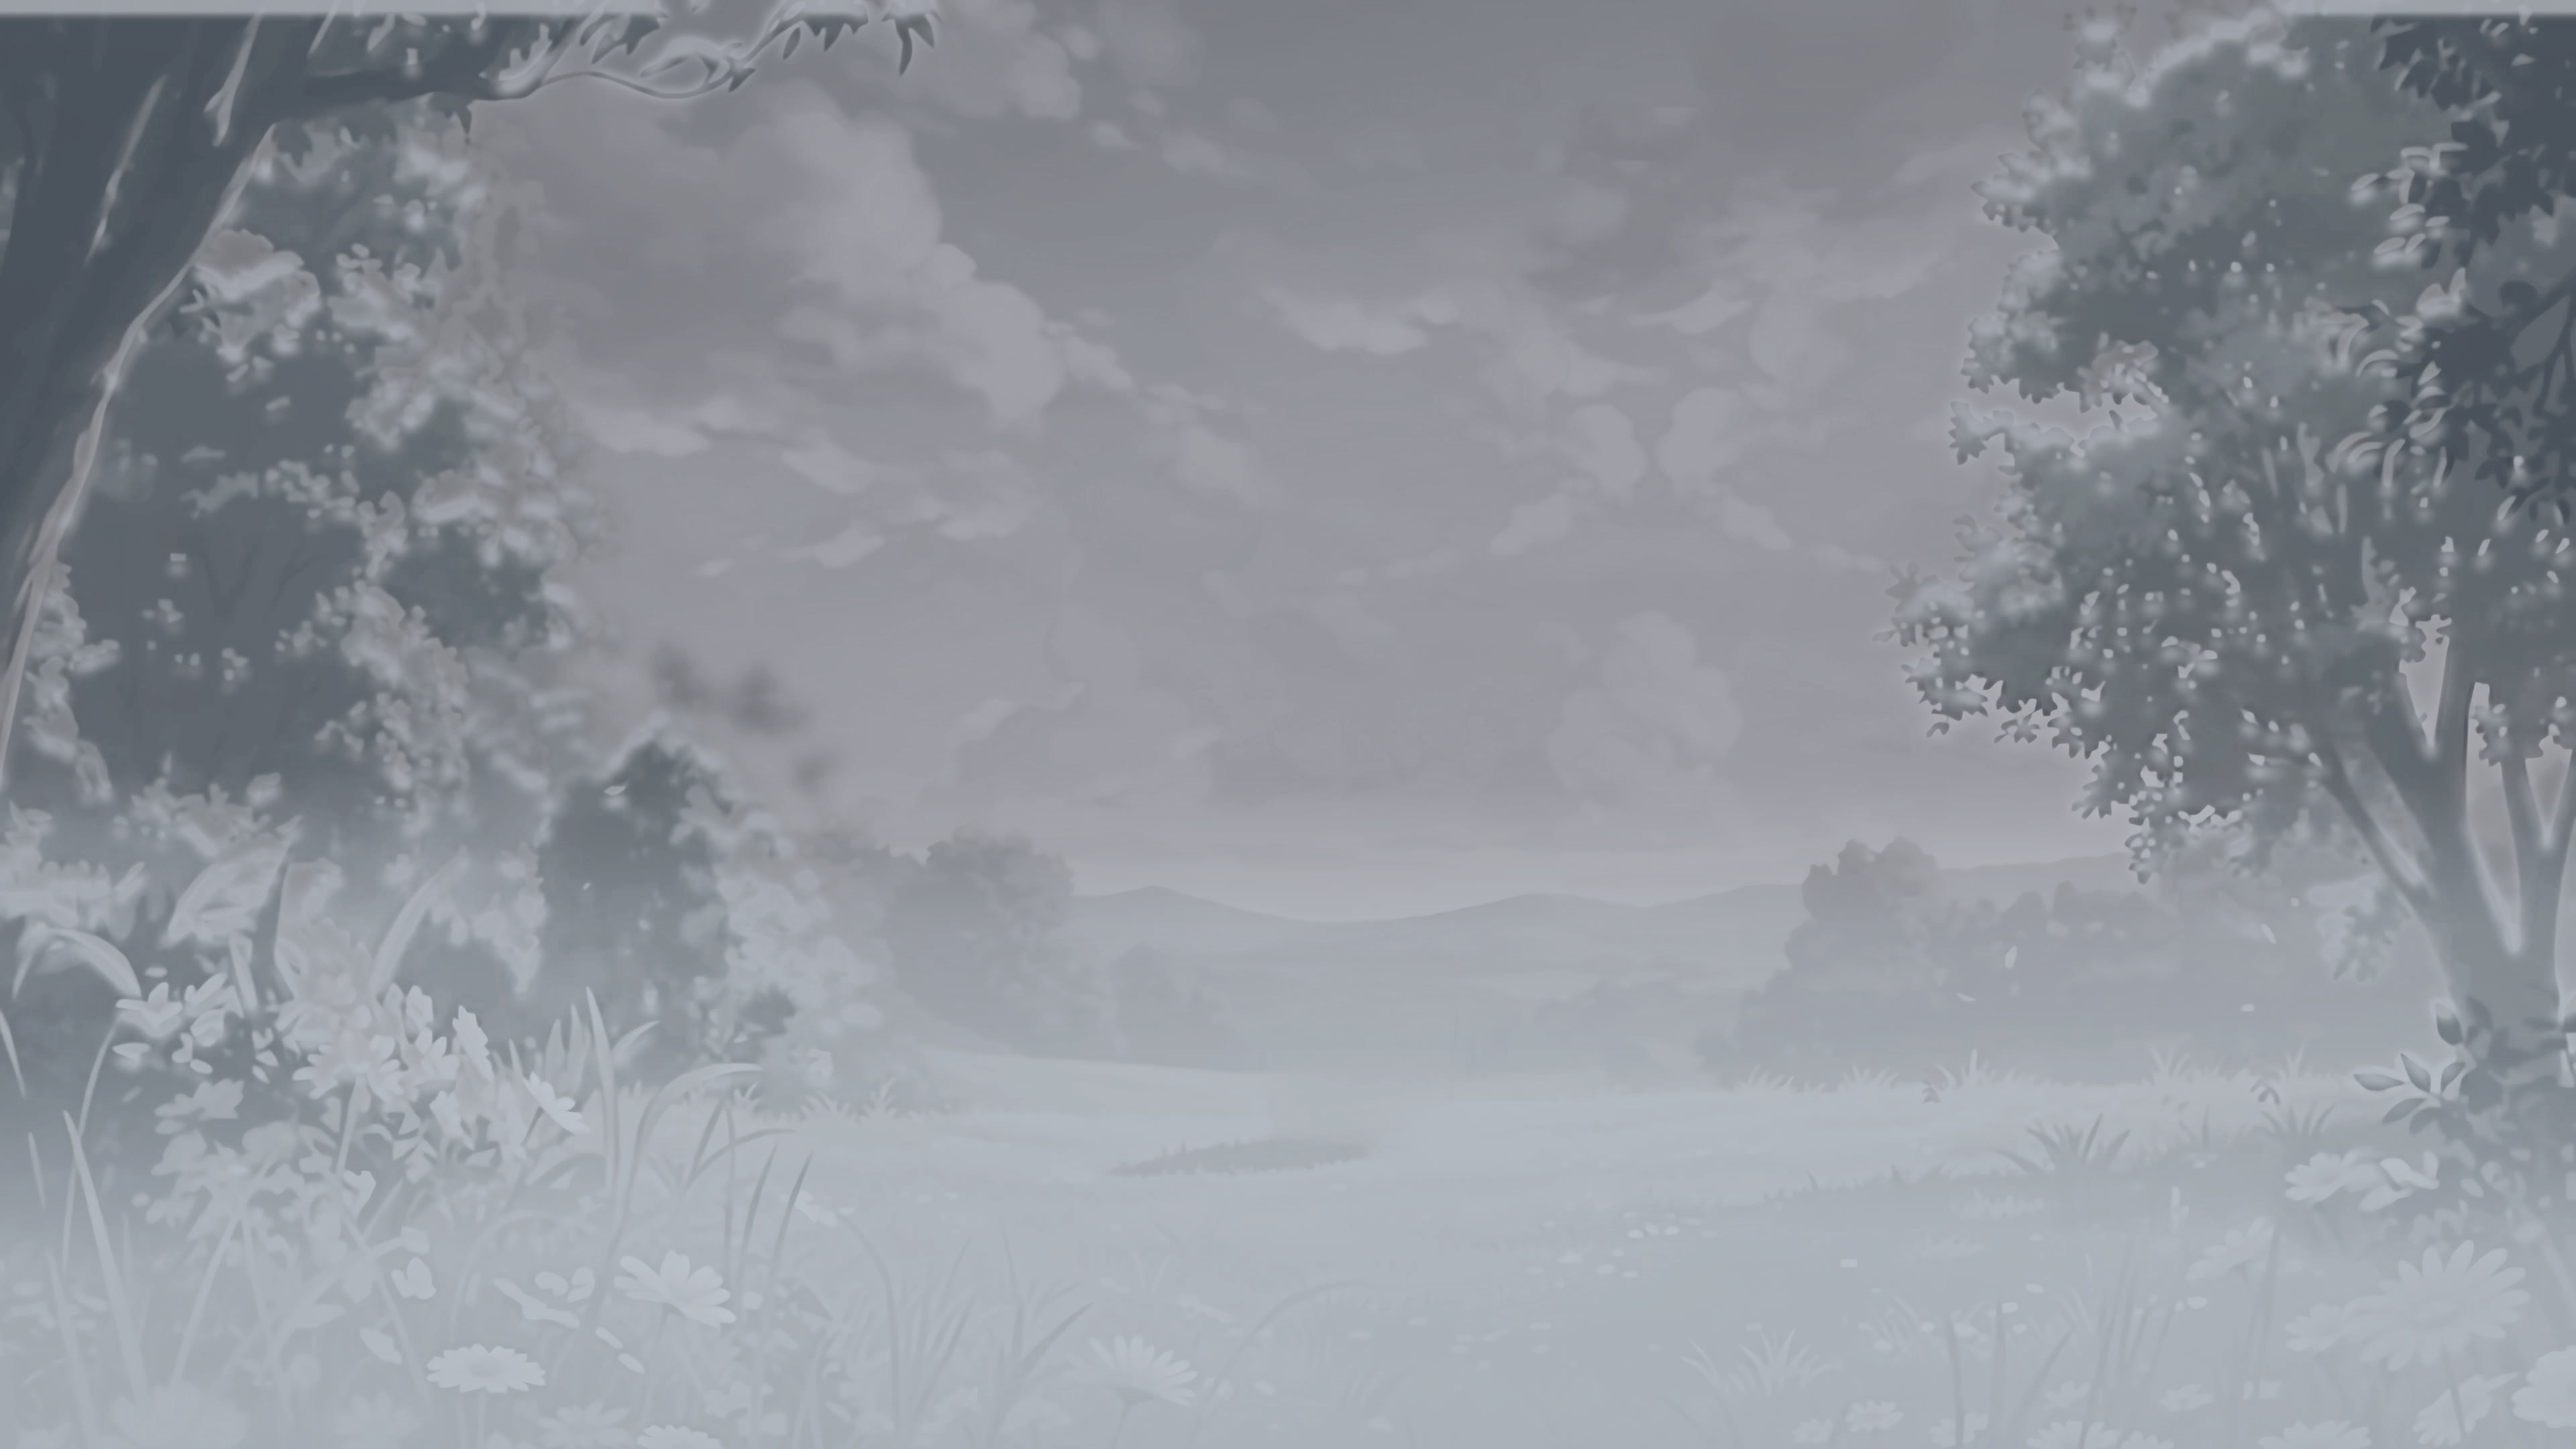
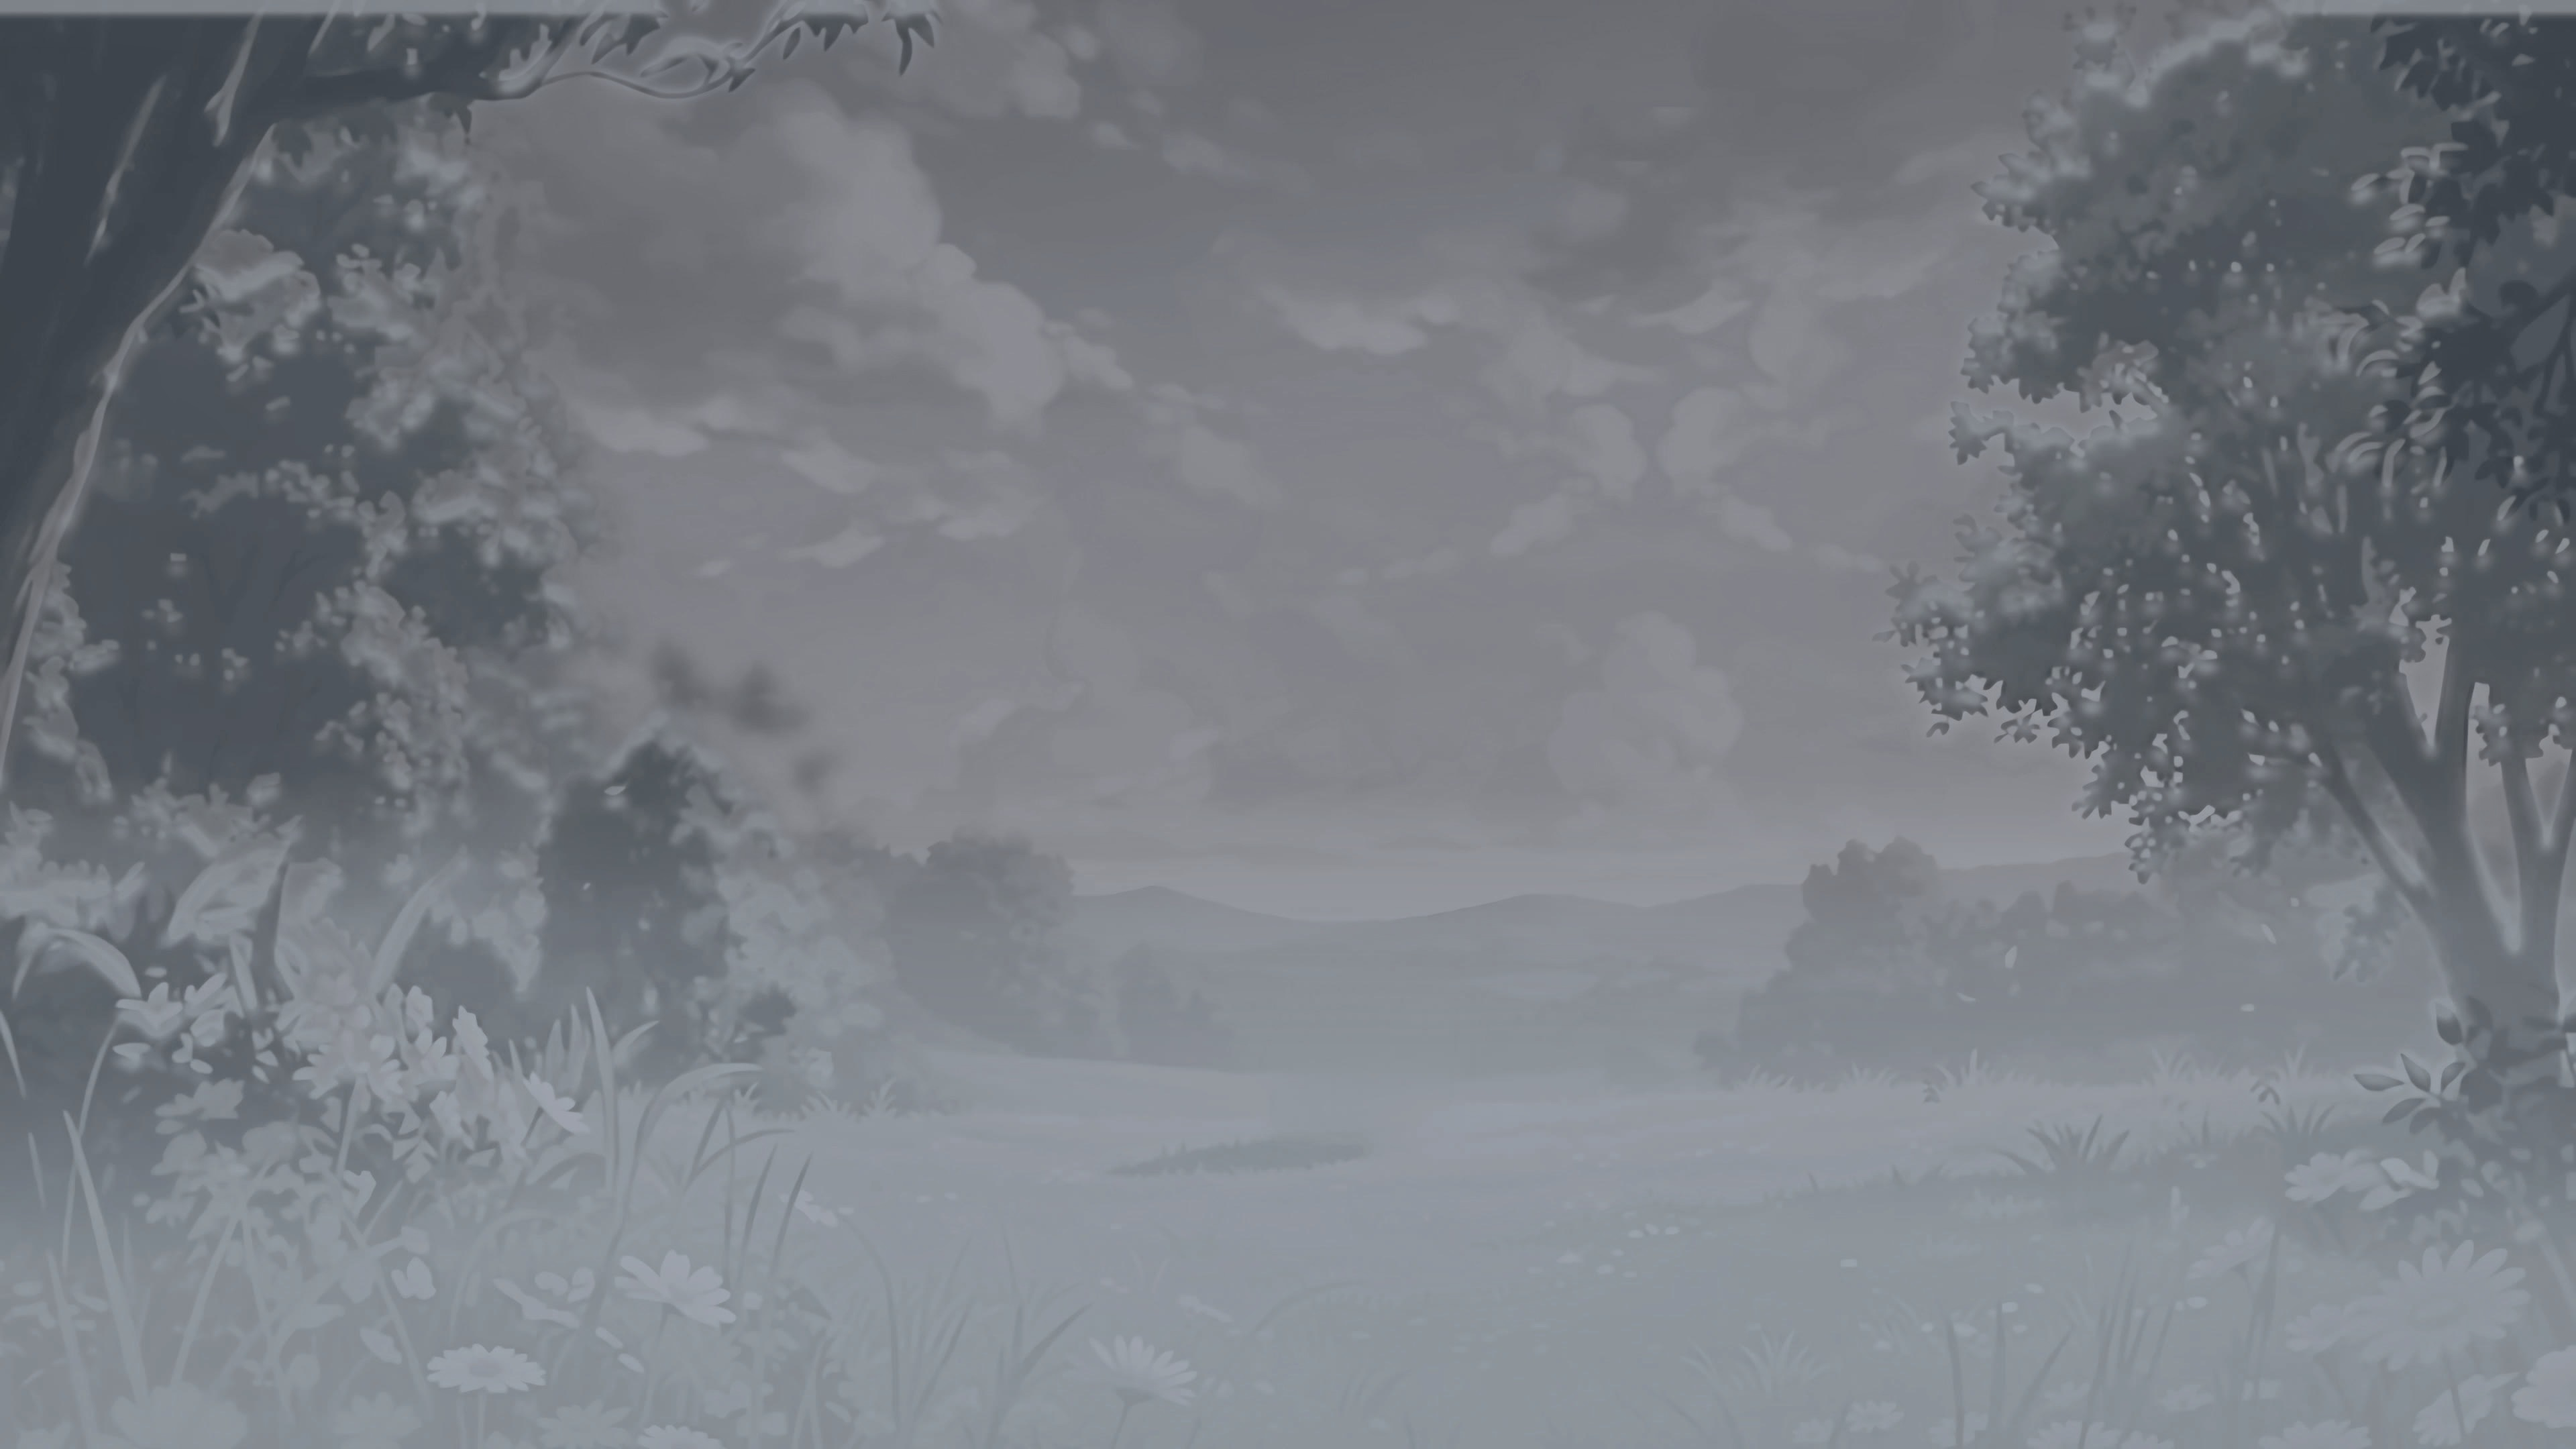
Take the glare out of winter dawn and day
"겨울은 다 괜찮은데, dawn이랑 day가 너무 전체적으로 눈이 부셔."

원인이 둘이었다. 눈 자체 밝기(하늘×1.35)와 겨울 보정 체인의 리프트가 겹쳐
겨울이 여름보다 낮 +35%, 새벽 +38% 밝았다.

밝은 시간대에만 듣게 나눠서 잡았다:
  · 눈 밝기 배수 1.35 → 1.18. 하한(하늘+45)이 밤을 붙잡고 있어 밝은 쪽에만 듣는다.
  · 체인 brightness .045 → .02.
  · 커브의 중간톤 리프트(0.5/0.57)를 뺐다. 다만 **통째로 빼면 안 된다** —
    검정 리프트는 어두운 변형에 훨씬 크게 작용해서 밤이 81→55로 같이 떨어졌다.
    중간톤만 빼고 검정 리프트는 0.10으로 남겼다.

결과: 새벽 178→150, 낮 181→154, 노을 158→132, 밤 81→67.
하늘/땅 차이도 +18~+25로 고르다.

ASSET_V 20260906b → c.

Claude-Session: https://claude.ai/code/session_01DfXVxXN3TYLX1vj93jJ6MP

diff --git a/index.html b/index.html
@@ -607,7 +607,7 @@ function layoutFrameBox(el) {
      그래서 URL에 판번호를 붙여 한 벌로 받게 한다.
      **bg-*.jpg / naeru-*.* 를 다시 구우면 이 값을 반드시 올릴 것.**
      (배경 영상 meadow-*는 안 바뀌므로 그대로 둔다) */
-  var ASSET_V = "20260906b";
+  var ASSET_V = "20260906c";
   function av(u) { return u + "?v=" + ASSET_V; }
   document.documentElement.dataset.av = ASSET_V;   // 혀 IIFE가 캐시 판번호를 쓴다
 

diff --git a/tools/season/repaint.py b/tools/season/repaint.py
@@ -46,11 +46,17 @@ CHAINS = {
     "autumn": "selectivecolor=greens=-0.85 0.34 0.95 0.05:"
               "yellows=-0.22 0.18 0.45 0.02,"
               "colortemperature=4400:mix=.28,eq=saturation=1.10:gamma=1.01",
+    # 밝기 리프트를 낮췄다(.045→.02, 커브 0.57→0.53). 눈을 얹은 위에 체인까지
+    # 들어올리니 새벽·낮이 눈부셨다
     "winter": "selectivecolor=greens=-0.06 0.02 -0.10 0.06:"
               "yellows=-0.08 0 -0.12 0.05,"
-              "eq=saturation=.42:brightness=.045:contrast=.94,"
+              "eq=saturation=.42:brightness=.02:contrast=.94,"
               "colorbalance=bs=.10:bm=.07:bh=.05:rs=-.05:rm=-.04:rh=-.03,"
-              "curves=all='0/0.07 0.5/0.57 1/1'",
+              "curves=all='0/0.10 0.5/0.50 1/0.97'",
+    # 커브는 **검정만 살짝** 들어올린다. 중간톤까지 0.57로 올리던 원래 커브가
+    # 눈부심의 큰 몫이었지만, 통째로 빼면 밤이 81→55로 같이 어두워진다
+    # (검정 리프트는 어두운 변형에 훨씬 크게 작용한다). 밤은 그대로 두라는
+    # 제보였으므로 검정 리프트만 남긴다
 }
 
 
@@ -123,7 +129,10 @@ def snow_white(a, sky, shape):
     H, W = shape
     core = sky > 0.6
     m = a[core].mean(0) if core.any() else np.array([180.0, 180.0, 190.0])
-    level = float(np.clip(max(m.mean() * 1.35, m.mean() + 45), 60, 252))
+    # 배수는 1.35 → 1.18로 낮췄다. 하한(+45)이 밤을 붙잡고 있으므로 이 변화는
+    # **밝은 시간대에만** 듣는다 — 새벽·낮이 눈부시다는 제보(2026-09-06)에 대한
+    # 조정이고, 노을·밤은 거의 그대로다
+    level = float(np.clip(max(m.mean() * 1.18, m.mean() + 45), 60, 246))
     tint = m / max(m.mean(), 1.0)
     col = np.clip(tint * level, 0, 255)
     col[2] = min(255.0, col[2] * 1.03)        # 눈 그늘은 살짝 푸르다
